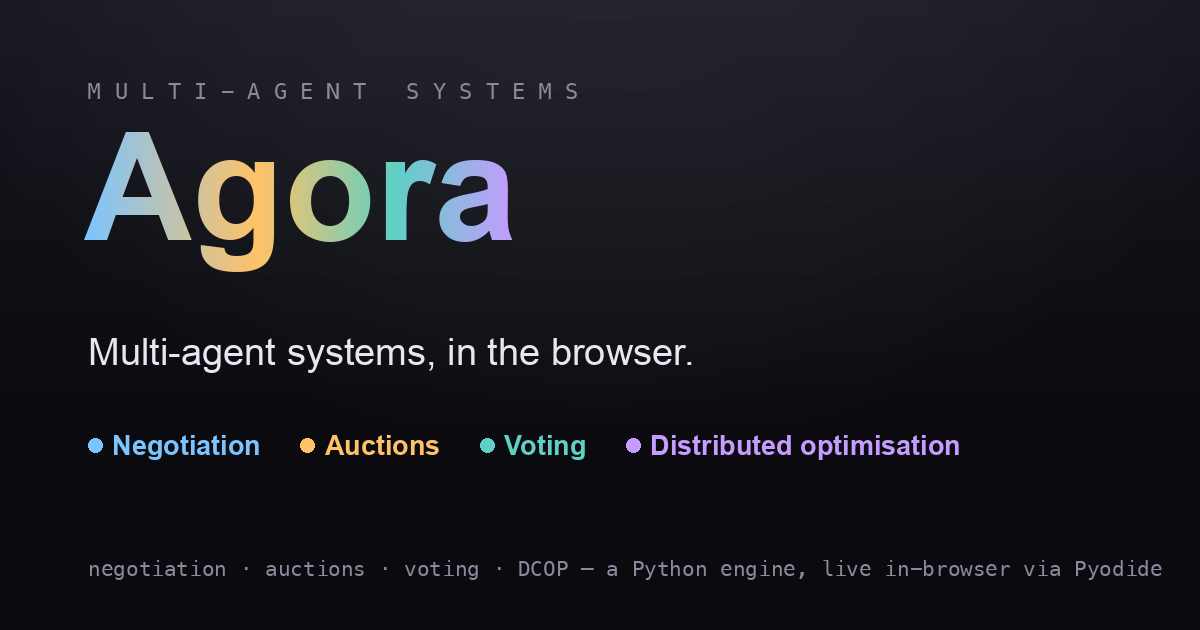
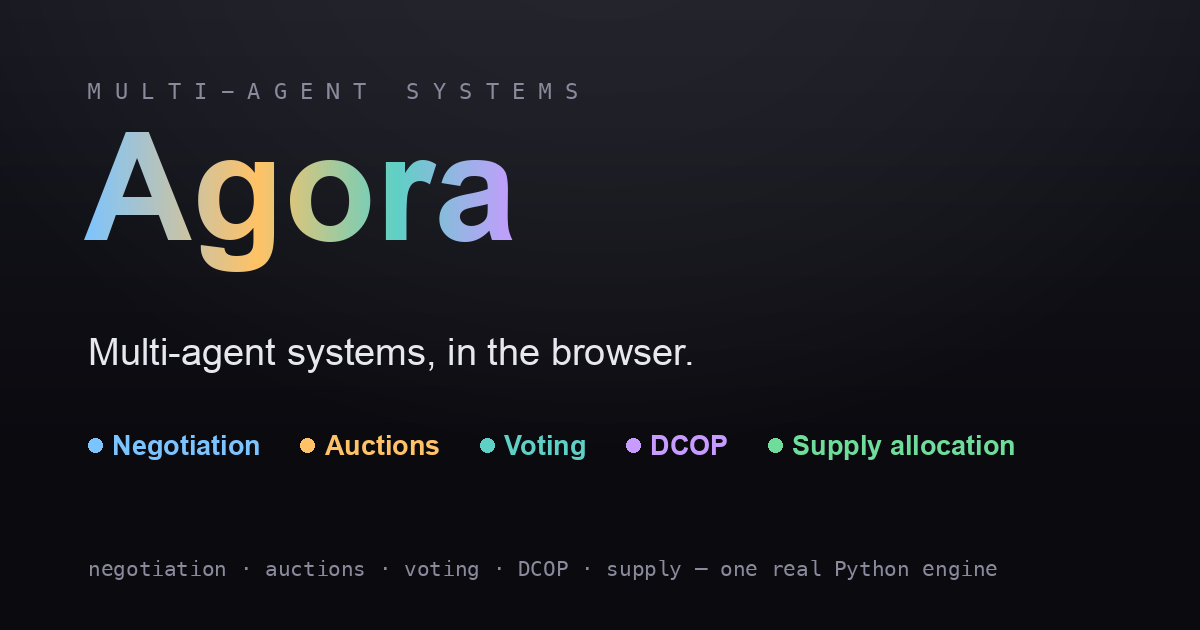
Tier 1 polish: og.png with 5 demos + the Stranded store scenario
- og.png regenerated to show all five demos (make_og.py: Supply allocation dot
  in the accent green, "Distributed optimisation" shortened to DCOP so the row
  fits, footer trimmed to fit the right margin; now run via the venv, since
  Pillow lives there — docstring updated).
- New 5th scenario "Stranded store": the Coastal DC has no lane to the Valley
  store, and greedy burns the Junction's stock on its cheapest (City) lane —
  half the demand unserved, efficiency 0. The most dramatic greedy failure,
  and the first shipped use of the feasible:False comparison row. The
  scorecard now tags such rows "strands demand" (and renders a null
  efficiency as an em dash).
- Dropped a pre-existing unused import in run_dcop.py (verified dcop.json
  regenerates identically).

Tests 78 -> 84; supply.json regenerated with the new scenario (72 KB).

diff --git a/docs/supply/index.html b/docs/supply/index.html
@@ -310,8 +310,8 @@ function drawScore(){
     const div=document.createElement('div'); div.className='srow'+(m===method?' on':''); div.dataset.m=m;
     div.innerHTML=`<div class="top"><div class="nm" style="color:${col}">${MLABEL[m]}<i>${m==='optimum'?'central LP':m==='market'?'auction':'myopic'}</i></div>
       <div class="val">${val}</div></div>
-      <div class="bar"><i style="width:${Math.max(2,r.efficiency*100)}%;background:${col}"></i></div>
-      <div class="effx">${pct(r.efficiency)} efficient · ${r.pctServed}% served</div>`;
+      <div class="bar"><i style="width:${Math.max(2,(r.efficiency||0)*100)}%;background:${col}"></i></div>
+      <div class="effx">${r.efficiency==null?'—':pct(r.efficiency)} efficient · ${r.pctServed}% served${r.feasible===false?' · <b style="color:var(--bad)">strands demand</b>':''}</div>`;
     div.onclick=()=>setMethod(m);
     el.appendChild(div);
   });

diff --git a/supply/instances.py b/supply/instances.py
@@ -98,6 +98,31 @@ def myopia() -> Network:
     return Network("Greedy's blind spot", warehouses, stores, _lanes(costs))
 
 
+def stranded() -> Network:
+    """No backup route: greedy leaves a whole store with nothing.
+
+    The Coastal DC has no lane to the Valley store — only the Junction reaches
+    it. But the Junction's cheapest lane is to the City store (which the Coastal
+    DC could have covered). Greedy spends the Junction's stock on the City lane
+    and the Valley gets zero: the plan is cheap per unit shipped but fails half
+    the network. Its efficiency is 0 — cost comparisons mean nothing when you
+    don't serve the same demand.
+    """
+    warehouses = [
+        Warehouse("W1", "Junction DC", 10, 0.45, 0.40),
+        Warehouse("W2", "Coastal DC", 10, 0.90, 0.60),
+    ]
+    stores = [
+        Store("S1", "City store", 10, 0.65, 0.75),
+        Store("S2", "Valley store", 10, 0.12, 0.65),
+    ]
+    costs = {
+        ("W1", "S1"): 1, ("W1", "S2"): 2,
+        ("W2", "S1"): 3,               # the Coastal DC cannot reach the Valley
+    }
+    return Network("Stranded store", warehouses, stores, _lanes(costs))
+
+
 SCENARIOS = [
     {
         "id": "regions",
@@ -133,6 +158,17 @@ SCENARIOS = [
                  "doesn't. Grab the cheapest lane and you pay 9× to reach the "
                  "Remote store; plan ahead and the bill halves, 100 down to 50.",
         "network": myopia(),
+    },
+    {
+        "id": "stranded",
+        "label": "Stranded store",
+        "blurb": "Only the Junction DC can reach the Valley store — but its "
+                 "cheapest lane goes to the City, which the Coastal DC could have "
+                 "covered. Greedy burns the Junction's stock on that cheap lane "
+                 "and the Valley gets nothing: half the demand unserved, "
+                 "efficiency zero. The market and the optimum plan backwards "
+                 "from the constraint.",
+        "network": stranded(),
     },
 ]
 

diff --git a/tests/test_supply.py b/tests/test_supply.py
@@ -10,7 +10,8 @@ sys.path.insert(0, os.path.dirname(os.path.dirname(os.path.abspath(__file__))))
 
 from supply.analysis import compare, evaluate
 from supply.greedy import solve_greedy
-from supply.instances import bottleneck, myopia, regions, shortage
+from supply.instances import (SCENARIOS, bottleneck, myopia, regions,
+                              shortage, stranded)
 from supply.market import solve_market, _downsample
 from supply.model import Lane, Network, Store, Warehouse
 from supply.solve import solve_optimum
@@ -240,6 +241,22 @@ def test_compare_stranded_demand():
           c["comparison"]["market"]["efficiency"] == 1.0)
 
 
+def test_stranded_scenario():
+    """The shipped 'stranded' scenario: greedy fails half the network."""
+    check("stranded is a shipped scenario",
+          any(s["id"] == "stranded" for s in SCENARIOS))
+    net = stranded()
+    c = compare(net)
+    check("stranded optimum cost is 50",
+          close(c["comparison"]["optimum"]["cost"], 50))
+    g = c["comparison"]["greedy"]
+    check("stranded greedy serves only 50%", close(g["pctServed"], 50))
+    check("stranded greedy is infeasible", g["feasible"] is False)
+    check("stranded greedy efficiency is 0", g["efficiency"] == 0.0)
+    check("stranded market is optimal",
+          close(c["comparison"]["market"]["efficiency"], 1.0))
+
+
 def test_compare_nonpositive_welfare():
     """Ratio direction is undefined when optimal welfare <= 0; don't invert."""
     net = Network("mixed",
@@ -261,7 +278,7 @@ if __name__ == "__main__":
                test_greedy_gap_cost, test_compare,
                test_model_validation, test_market_integer_guard,
                test_market_edge_guards, test_compare_stranded_demand,
-               test_compare_nonpositive_welfare]:
+               test_stranded_scenario, test_compare_nonpositive_welfare]:
         print(fn.__name__)
         fn()
     print("\nAll supply engine smoke tests passed.")

diff --git a/experiments/make_og.py b/experiments/make_og.py
@@ -1,6 +1,9 @@
 """Render the 1200x630 Open Graph / social card to docs/og.png.
 
-    python3 experiments/make_og.py
+Needs Pillow (not in requirements.txt — it's a build tool, not an engine dep):
+
+    .venv/bin/pip install pillow
+    .venv/bin/python experiments/make_og.py
 """
 from __future__ import annotations
 
@@ -15,11 +18,13 @@ MONO = "/System/Library/Fonts/Menlo.ttc"
 
 INK = (231, 231, 239)
 MUTED = (138, 138, 156)
-# demo accent colours (negotiation, auctions, voting, dcop)
+# demo accent colours (negotiation, auctions, voting, dcop; title gradient
+# matches the site's h1)
 STOPS = [(0.0, (124, 196, 255)), (0.40, (255, 194, 102)),
          (0.72, (95, 208, 197)), (1.0, (199, 155, 255))]
 DEMOS = [("Negotiation", (124, 196, 255)), ("Auctions", (255, 194, 102)),
-         ("Voting", (95, 208, 197)), ("Distributed optimisation", (199, 155, 255))]
+         ("Voting", (95, 208, 197)), ("DCOP", (199, 155, 255)),
+         ("Supply allocation", (111, 220, 155))]
 
 
 def lerp(a, b, t):
@@ -82,7 +87,7 @@ def main():
 
     # footer
     d.text((PAD + 4, 556),
-           "negotiation · auctions · voting · DCOP — a Python engine, live in-browser via Pyodide",
+           "negotiation · auctions · voting · DCOP · supply — one real Python engine",
            font=foot, fill=MUTED)
 
     out = os.path.join(root, "docs", "og.png")

diff --git a/experiments/run_dcop.py b/experiments/run_dcop.py
@@ -11,7 +11,7 @@ import sys
 
 sys.path.insert(0, os.path.dirname(os.path.dirname(os.path.abspath(__file__))))
 
-from core.dcop import make_graph, dsa, mgm, count_conflicts
+from core.dcop import make_graph, dsa, mgm
 
 ROUNDS = 60
 P = 0.7

diff --git a/README.md b/README.md
@@ -64,7 +64,7 @@ core/                 # reusable pure-Python engine (no dependencies)
   dcop.py             #   graph colouring via DSA and MGM
 supply/               # logistics allocation engine (needs scipy; not in browser)
   model.py            #   transportation network: warehouses, stores, lanes
-  instances.py        #   four hand-checkable logistics scenarios
+  instances.py        #   five hand-checkable logistics scenarios
   solve.py            #   central LP optimum + dual shadow prices (scipy/HiGHS)
   market.py           #   auction algorithm -> allocation + clearing prices
   greedy.py           #   myopic cheapest-lane baseline
@@ -79,7 +79,7 @@ docs/                  # static site (served by GitHub Pages from /docs)
   data/               #   precomputed traces + manifests
   core/               #   copy of the engine, fetched by Pyodide
 tests/test_core.py    # engine smoke tests (37 checks)
-tests/test_supply.py  # supply engine smoke tests (needs venv; 66 checks)
+tests/test_supply.py  # supply engine smoke tests (needs venv; 84 checks)
 ```
 
 The `core/` engine is deliberately dependency-free and small enough that exact
